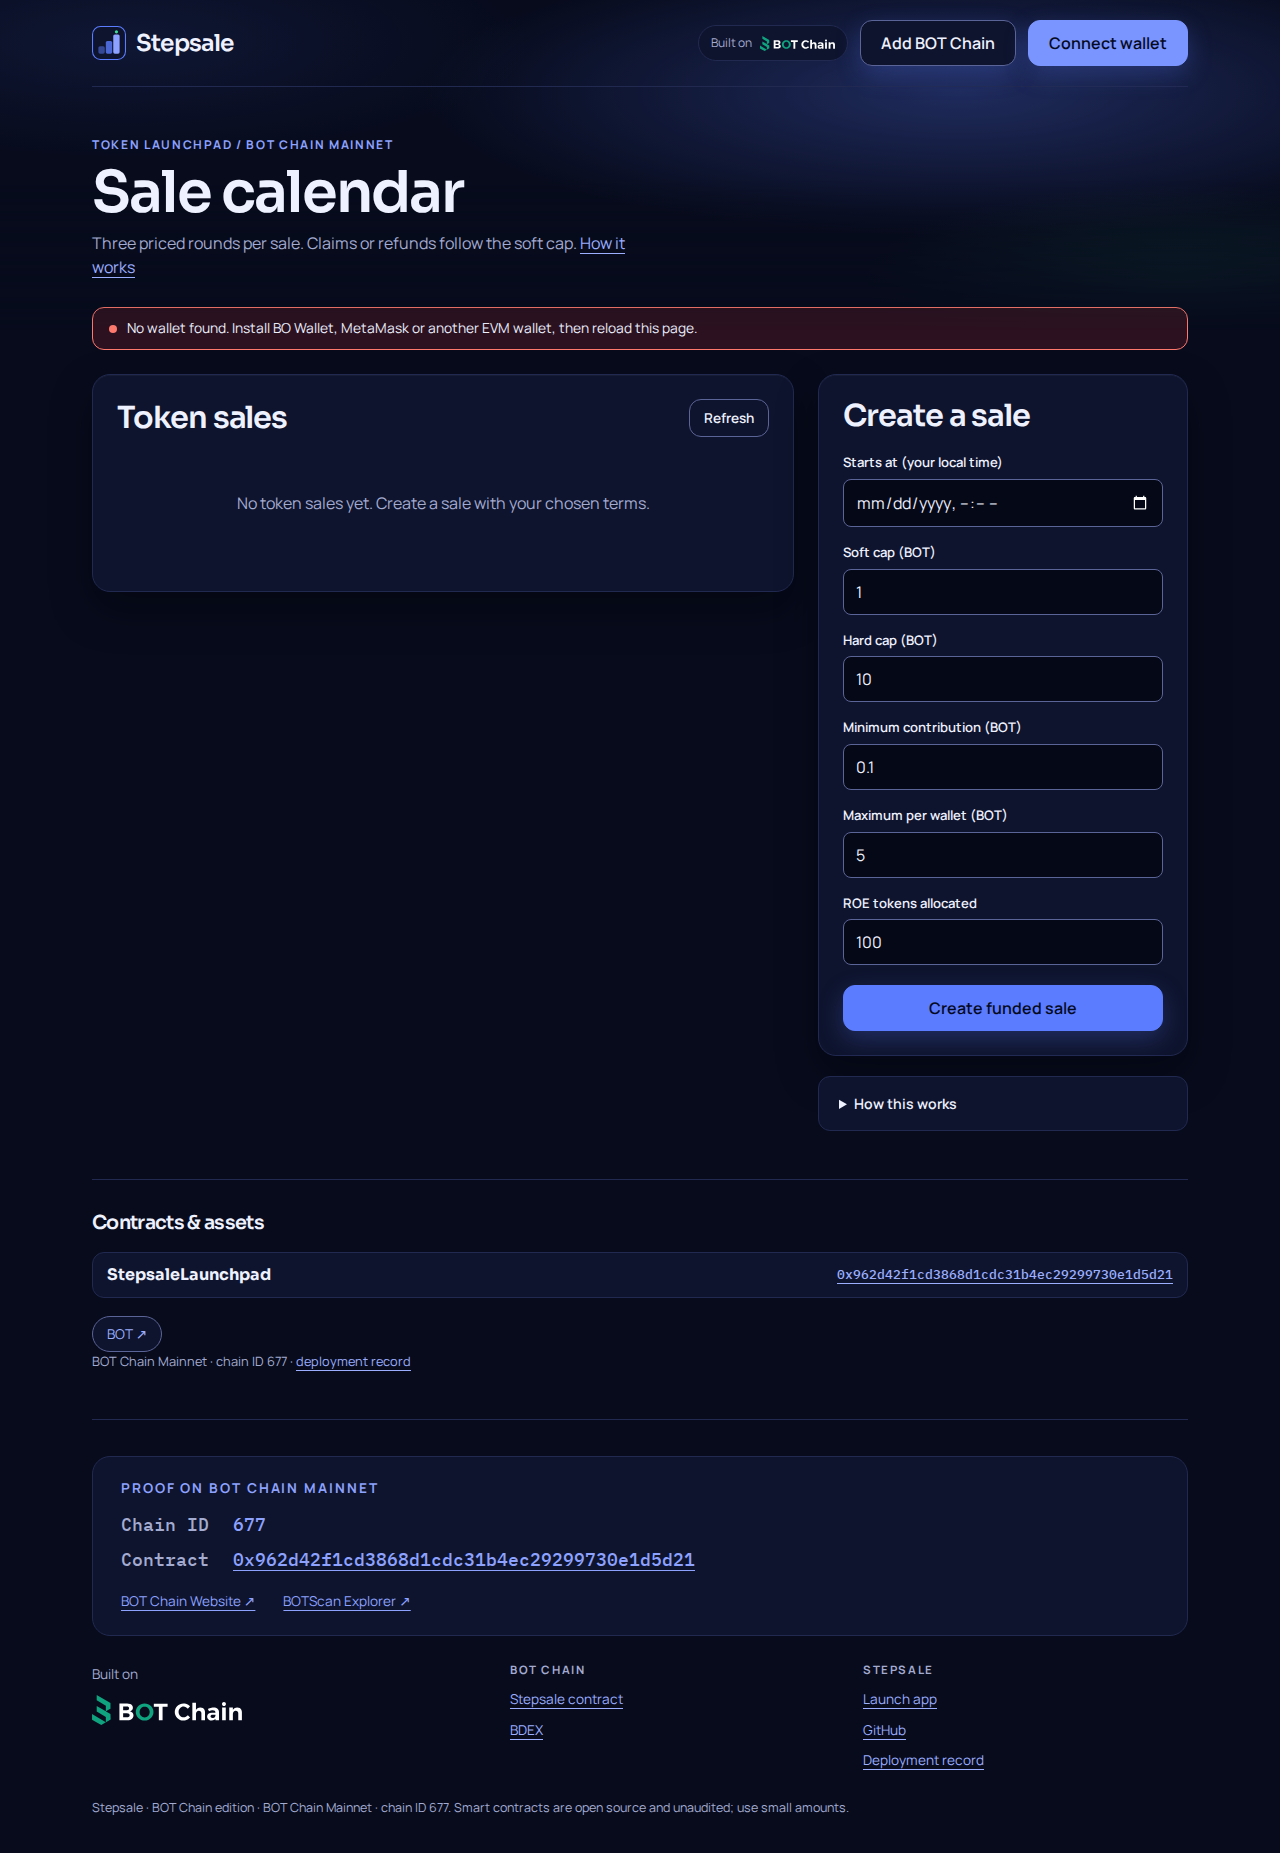
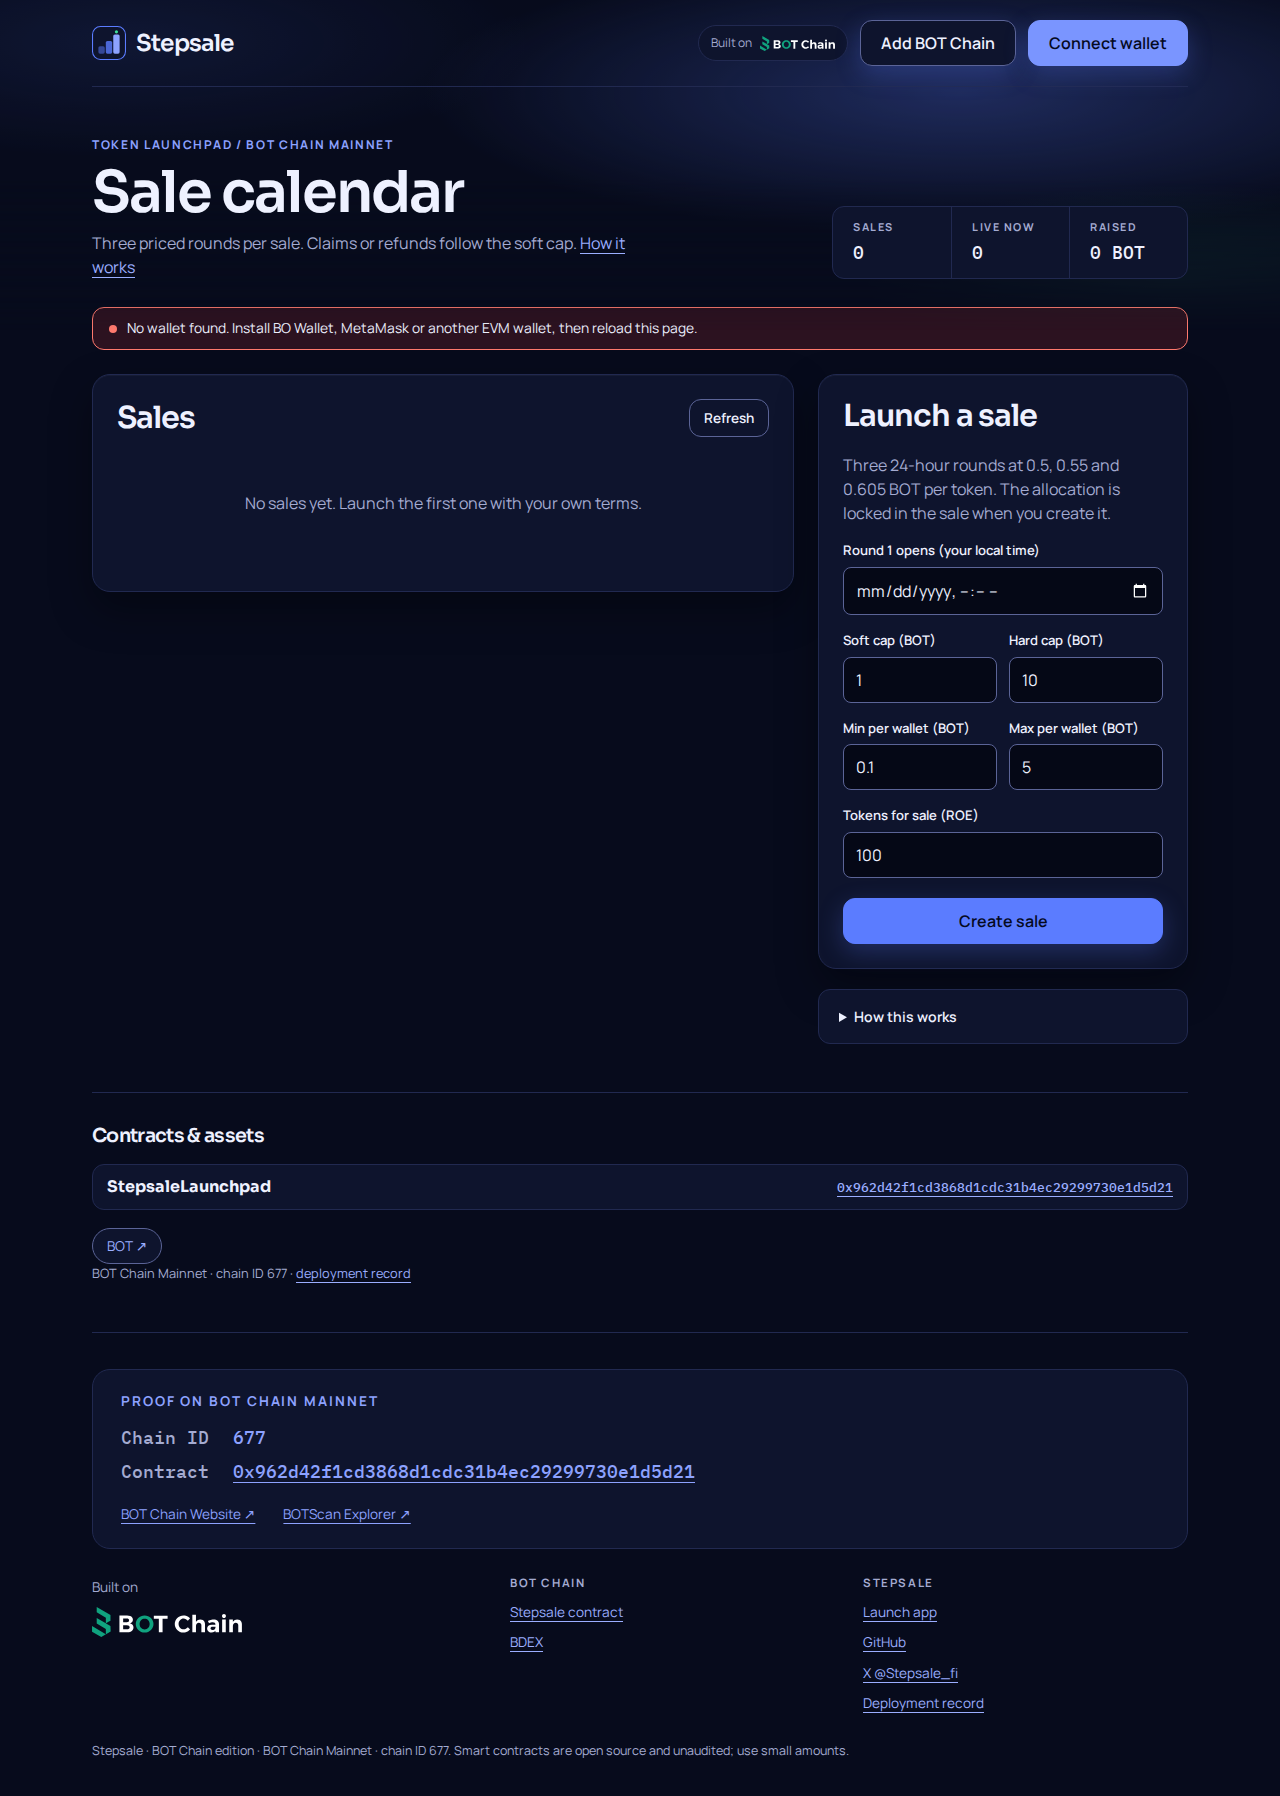
Redesigned app, X handle, mainnet proof footer

diff --git a/web/products/stepsale.js b/web/products/stepsale.js
@@ -1,16 +1,41 @@
 import {$,state,fmt,link,button,field,form,amount,read,tx,mine,chainTime,asset,start} from '../core.js';
+const trim=v=>{const [a,b='']=v.split('.');return b?`${a}.${b.slice(0,4).replace(/0+$/,'')||'0'}`.replace(/\.0$/,''):a;};
+const day=d=>new Date(Number(d)*1000).toLocaleDateString(undefined,{day:'numeric',month:'short'});
+const tally={sales:0,live:0,raised:0n};
+const box=inner=>`<div>${inner}</div>`;
 function controls(){
- $('list-title').textContent='Token sales';
- $('controls').innerHTML='<h2>Create a sale</h2>'+form('sale',field('start','Starts at (your local time)','','datetime-local')+field('soft','Soft cap (BOT)','1','text','inputmode="decimal"')+field('hard','Hard cap (BOT)','10','text','inputmode="decimal"')+field('min','Minimum contribution (BOT)','0.1','text','inputmode="decimal"')+field('max','Maximum per wallet (BOT)','5','text','inputmode="decimal"')+field('allocation','ROE tokens allocated','100','text','inputmode="decimal"'),'Create funded sale',async f=>tx('StepsaleLaunchpad','create',[BigInt(Math.floor(new Date(f.start).getTime()/1000)),amount(f.soft),amount(f.hard),amount(f.min),amount(f.max),amount(f.allocation)]));
+ $('list-title').textContent='Sales';
+ $('controls').innerHTML='<h2>Launch a sale</h2><p>Three 24-hour rounds at 0.5, 0.55 and 0.605 BOT per token. The allocation is locked in the sale when you create it.</p>'
+  +form('sale',field('start','Round 1 opens (your local time)','','datetime-local')
+   +`<div class="two">${box(field('soft','Soft cap (BOT)','1','text','inputmode="decimal"'))}${box(field('hard','Hard cap (BOT)','10','text','inputmode="decimal"'))}</div>`
+   +`<div class="two">${box(field('min','Min per wallet (BOT)','0.1','text','inputmode="decimal"'))}${box(field('max','Max per wallet (BOT)','5','text','inputmode="decimal"'))}</div>`
+   +field('allocation','Tokens for sale (ROE)','100','text','inputmode="decimal"'),
+   'Create sale',async f=>tx('StepsaleLaunchpad','create',[BigInt(Math.floor(new Date(f.start).getTime()/1000)),amount(f.soft),amount(f.hard),amount(f.min),amount(f.max),amount(f.allocation)]));
  $('rules').innerHTML='<ul><li>Each sale creates its own ROE token with one billion supply. The creator receives unallocated tokens.</li><li>Three 24-hour rounds price one ROE at 0.5, 0.55, then 0.605 BOT.</li><li>Allocated tokens are deposited into the sale at creation. It cannot sell more than that allocation.</li><li>Claims unlock three days after the final round. If the soft cap fails, contributors can refund then.</li><li>Pausing stops purchases, but does not block refunds or matured claims.</li></ul>';
 }
-async function render(){
- const count=Number(await read('StepsaleLaunchpad','saleCount'));const nowMs=await chainTime()*1000;let html='';
- for(let id=count-1;id>=Math.max(0,count-20);id--){const addr=await read('StepsaleLaunchpad','sales',[BigInt(id)]);const get=(fn,args=[])=>read('ROEPresale',fn,args,addr);const [raised,soft,hard,current,claimStart,token]=await Promise.all([get('totalRaised'),get('softCap'),get('hardCap'),get('getPresaleStatus'),get('claimStart'),read('StepsaleLaunchpad','saleToken',[addr])]);
-  html+=`<article class="item"><h3>ROE sale #${id+1}</h3><p>${link(token,'Token contract')} · ${link(addr,'Sale contract')}</p><div class="amount">${fmt(raised)} / ${fmt(hard)} ${asset('BOT')}</div><p class="tiny">Soft cap ${fmt(soft)} BOT · ${current[0]?`Round ${current[1]+1} active`:'Sale not active'}<br>Claims / refunds: ${new Date(Number(claimStart)*1000).toLocaleString()}</p>`;
-  if(current[0])html+=form(`buy-${id}`,field(`buy-amount-${id}`,'Contribution (BOT)','0.1','text','inputmode="decimal"'),'Buy ROE',f=>tx('ROEPresale','buyTokens',[],amount(f[`buy-amount-${id}`]),addr));
-  if(state.account&&nowMs>=Number(claimStart)*1000){const contributed=await get('contributions',[state.account]),claimed=await get('claimed',[state.account]);if(contributed>0n&&!claimed)html+=button(raised>=soft?'Claim tokens':'Refund contribution',()=>tx('ROEPresale',raised>=soft?'claim':'refund',[],0n,addr),true);if(mine(await get('owner'))&&raised>=soft)html+=button('Withdraw raised BOT',()=>tx('ROEPresale','withdrawFunds',[state.account],0n,addr));}
-  html+='</article>';
- }return html||'<p class="empty">No token sales yet. Create a sale with your chosen terms.</p>';
+async function card(id){
+ const addr=await read('StepsaleLaunchpad','sales',[BigInt(id)]);const get=(fn,args=[])=>read('ROEPresale',fn,args,addr);
+ const [raised,soft,hard,status,claimStart,token,r0,r1,r2,min]=await Promise.all([get('totalRaised'),get('softCap'),get('hardCap'),get('getPresaleStatus'),get('claimStart'),read('StepsaleLaunchpad','saleToken',[addr]),get('rounds',[0n]),get('rounds',[1n]),get('rounds',[2n]),get('minContribution')]);
+ const now=await chainTime(),rounds=[r0,r1,r2],[active,cur]=status,ended=now>=Number(r2[2]),upcoming=now<Number(r0[1]);
+ tally.sales++;if(active)tally.live++;tally.raised+=raised;
+ const pct=hard>0n?Math.min(100,Number(raised*1000n/hard)/10):0,capAt=hard>0n?Math.min(100,Number(soft*1000n/hard)/10):0;
+ const label=active?`Round ${cur+1} live`:upcoming?`Opens ${day(r0[1])}`:now>=Number(claimStart)?(raised>=soft?'Claims open':'Refunds open'):'Sale ended';
+ let html=`<article class="sale"><div class="sheet-head"><div><h3>ROE sale #${id+1}</h3><span class="tiny">${link(token,'Token')} · ${link(addr,'Sale contract')}</span></div><div class="badges"><span class="badge${active?' live':''}">${label}</span></div></div>`;
+ html+=`<ol class="steps-track" aria-label="Rounds">${rounds.map((r,n)=>`<li class="${active&&cur===n?'now':(active&&cur>n)||ended?'done':''}"><strong>${trim(fmt(r[0]))} BOT</strong>Round ${n+1} · ${day(r[1])}</li>`).join('')}</ol>`;
+ html+=`<div class="meter" role="progressbar" aria-label="Raised toward hard cap" aria-valuemin="0" aria-valuemax="100" aria-valuenow="${pct}"><i style="width:${pct}%"></i><span class="cap" style="left:${capAt}%" title="Soft cap"></span></div>`;
+ html+=`<dl class="figs"><div><dt>Raised</dt><dd>${trim(fmt(raised))} BOT</dd></div><div><dt>Soft cap</dt><dd>${trim(fmt(soft))} BOT</dd></div><div><dt>Hard cap</dt><dd>${trim(fmt(hard))} BOT</dd></div><div><dt>Claims from</dt><dd>${day(claimStart)}</dd></div></dl>`;
+ if(active)html+=form(`buy-${id}`,field(`buy-amount-${id}`,`Contribute (BOT, min ${trim(fmt(min))})`,trim(fmt(min)),'text','inputmode="decimal"'),`Buy in round ${cur+1}`,f=>tx('ROEPresale','buyTokens',[],amount(f[`buy-amount-${id}`]),addr));
+ if(state.account){const contributed=await get('contributions',[state.account]);
+  if(contributed>0n)html+=`<p class="you">You contributed ${trim(fmt(contributed))} BOT.</p>`;
+  if(now>=Number(claimStart)){const claimed=await get('claimed',[state.account]);if(contributed>0n&&!claimed)html+=`<div class="actions">${button(raised>=soft?'Claim tokens':'Refund contribution',()=>tx('ROEPresale',raised>=soft?'claim':'refund',[],0n,addr),true)}</div>`;
+   if(mine(await get('owner'))&&raised>=soft)html+=`<div class="actions">${button('Withdraw raised BOT',()=>tx('ROEPresale','withdrawFunds',[state.account],0n,addr))}</div>`;}}
+ return html+'</article>';
 }
-start({controls,render});
+async function render(){
+ const count=Number(await read('StepsaleLaunchpad','saleCount'));Object.assign(tally,{sales:0,live:0,raised:0n});
+ const ids=[];for(let id=count-1;id>=Math.max(0,count-20);id--)ids.push(id);
+ const cards=await Promise.all(ids.map(card));
+ return cards.length?`<div class="sales">${cards.join('')}</div>`:'<p class="empty">No sales yet. Launch the first one with your own terms.</p>';
+}
+function stats(empty){return [['Sales',empty?'—':String(tally.sales)],['Live now',empty?'—':String(tally.live)],['Raised',empty?'—':`${trim(fmt(tally.raised))} BOT`]];}
+start({controls,render,stats});

diff --git a/web/base.css b/web/base.css
@@ -250,6 +250,32 @@ table.board{width:100%;border-collapse:collapse;font-size:.88rem}
 .grid button[aria-pressed=true]{background:var(--accent);color:var(--accent-ink);border-color:var(--accent)}
 .grid button[aria-pressed=true] small{color:var(--accent-ink)}
 .grid small{font-size:.68rem;color:var(--ink-2)}
+/* Bounty wall (Showproof): the composer spans the page, bounties are cards on a wall. */
+@media(min-width:861px){.workspace[data-layout=wall] #controls form{display:grid;grid-template-columns:repeat(4,minmax(0,1fr));gap:0 16px;align-items:end}.workspace[data-layout=wall] #controls .f.wide{grid-column:span 2}.workspace[data-layout=wall] #controls .f.full{grid-column:1/-1}.workspace[data-layout=wall] #controls form button[type=submit]{grid-column:1/-1;justify-self:start;width:auto;min-width:220px}}
+.wall{display:grid;grid-template-columns:repeat(auto-fill,minmax(min(100%,280px),1fr));gap:22px}
+.shot{display:flex;flex-direction:column;padding:12px 12px 18px;background:var(--surface-2);border:1px solid var(--line);border-radius:var(--radius-md);box-shadow:var(--shadow-1)}
+.shot-frame{position:relative;display:grid;place-items:center;aspect-ratio:4/3;margin-bottom:14px;border-radius:var(--radius-sm);background:var(--hero-bg);overflow:hidden}
+.shot-frame .amount{font-size:clamp(1.6rem,4vw,2.2rem)}
+.shot-frame .badge{position:absolute;top:10px;left:10px}
+.shot h3{font-size:1.15rem;margin:0 0 6px;overflow-wrap:anywhere}
+.shot p{font-size:.88rem;margin:0 0 10px;display:-webkit-box;-webkit-line-clamp:3;-webkit-box-orient:vertical;overflow:hidden}
+.shot details{padding:10px 0}
+/* Sale calendar (Stepsale): round timeline and raise meter. */
+.sales{display:grid;gap:18px}
+.sale{padding:22px;background:var(--surface-2);border:1px solid var(--line);border-radius:var(--radius-md)}
+.steps-track{display:grid;grid-template-columns:repeat(3,minmax(0,1fr));gap:8px;list-style:none;padding:0;margin:16px 0}
+.steps-track li{padding:10px 12px;border:1px solid var(--line);border-radius:var(--radius-sm);font-size:.78rem;color:var(--ink-2)}
+.steps-track li strong{display:block;font-family:var(--font-mono);font-size:1.05rem;color:var(--ink)}
+.steps-track li.now{border-color:var(--accent);box-shadow:inset 0 0 0 1px var(--accent);color:var(--ink)}
+.steps-track li.done{opacity:.6}
+.meter .cap{position:absolute;top:-4px;bottom:-4px;width:2px;background:var(--focus)}
+/* Deal ticket (Tradelock): segmented mode switch. */
+.seg{display:grid;grid-template-columns:1fr 1fr;margin:4px 0 8px;border:var(--border-w) solid var(--line-strong);border-radius:var(--radius-btn);overflow:hidden}
+.seg input{position:absolute;opacity:0;width:1px;height:1px}
+.seg label{margin:0;display:flex;align-items:center;justify-content:center;min-height:44px;cursor:pointer;font-weight:600;color:var(--ink-2)}
+.seg input:checked+label{background:var(--accent);color:var(--accent-ink)}
+.seg input:focus-visible+label{outline:3px solid var(--focus);outline-offset:-3px}
+.ticket:has(#mode-nft:checked) [data-form=nft-offer],.ticket:not(:has(#mode-nft:checked)) [data-form=nft-swap]{display:none}
 .contracts-panel{margin-top:48px;padding-top:32px;border-top:var(--border-w) solid var(--line)}
 .contracts-panel h2{font-size:1.2rem;margin-bottom:6px}
 .contracts-panel .contracts{grid-template-columns:repeat(auto-fit,minmax(min(100%,420px),1fr))}

diff --git a/README.md b/README.md
@@ -6,6 +6,7 @@
 
 - Website and app: https://stepsale.vercel.app (app at [`/app/`](https://stepsale.vercel.app/app/))
 - Network: BOT Chain mainnet, chain ID 677 · [BOT Chain](https://www.botchain.ai/) · [BOTScan](https://scan.botchain.ai/)
+- X: [@Stepsale_fi](https://x.com/Stepsale_fi)
 
 ![Stepsale landing page](docs/stepsale-landing-1280.png)
 
